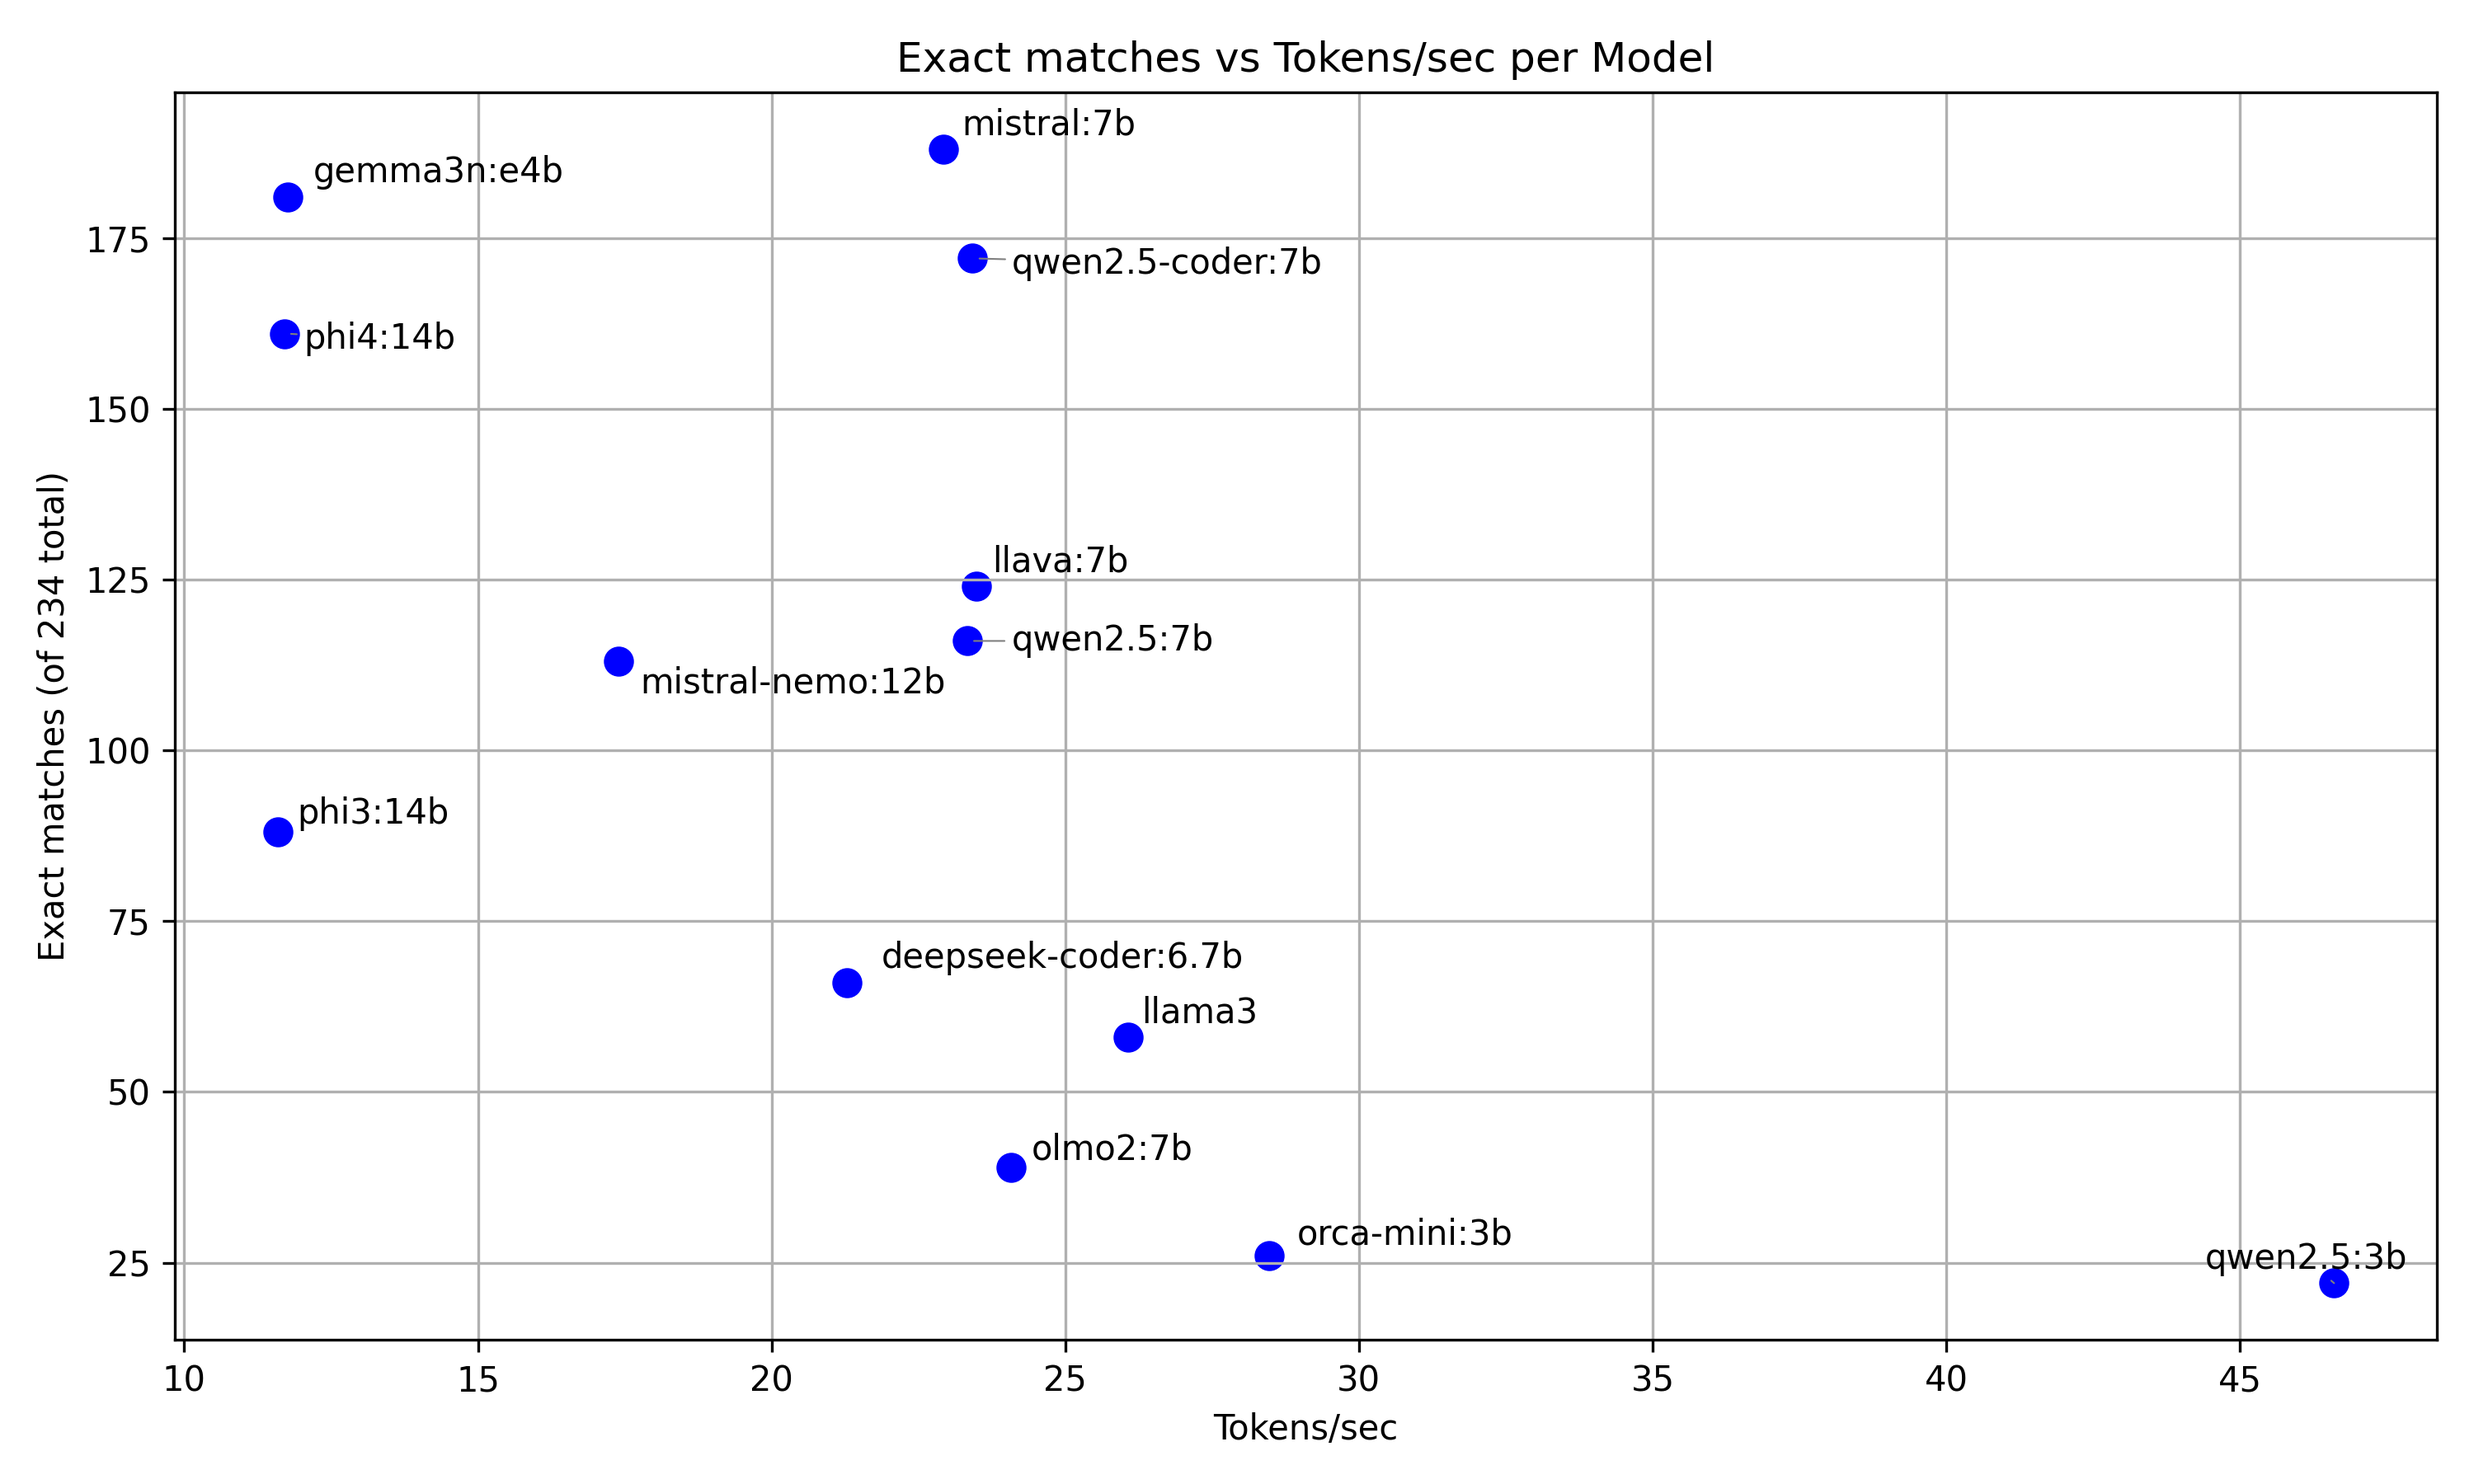
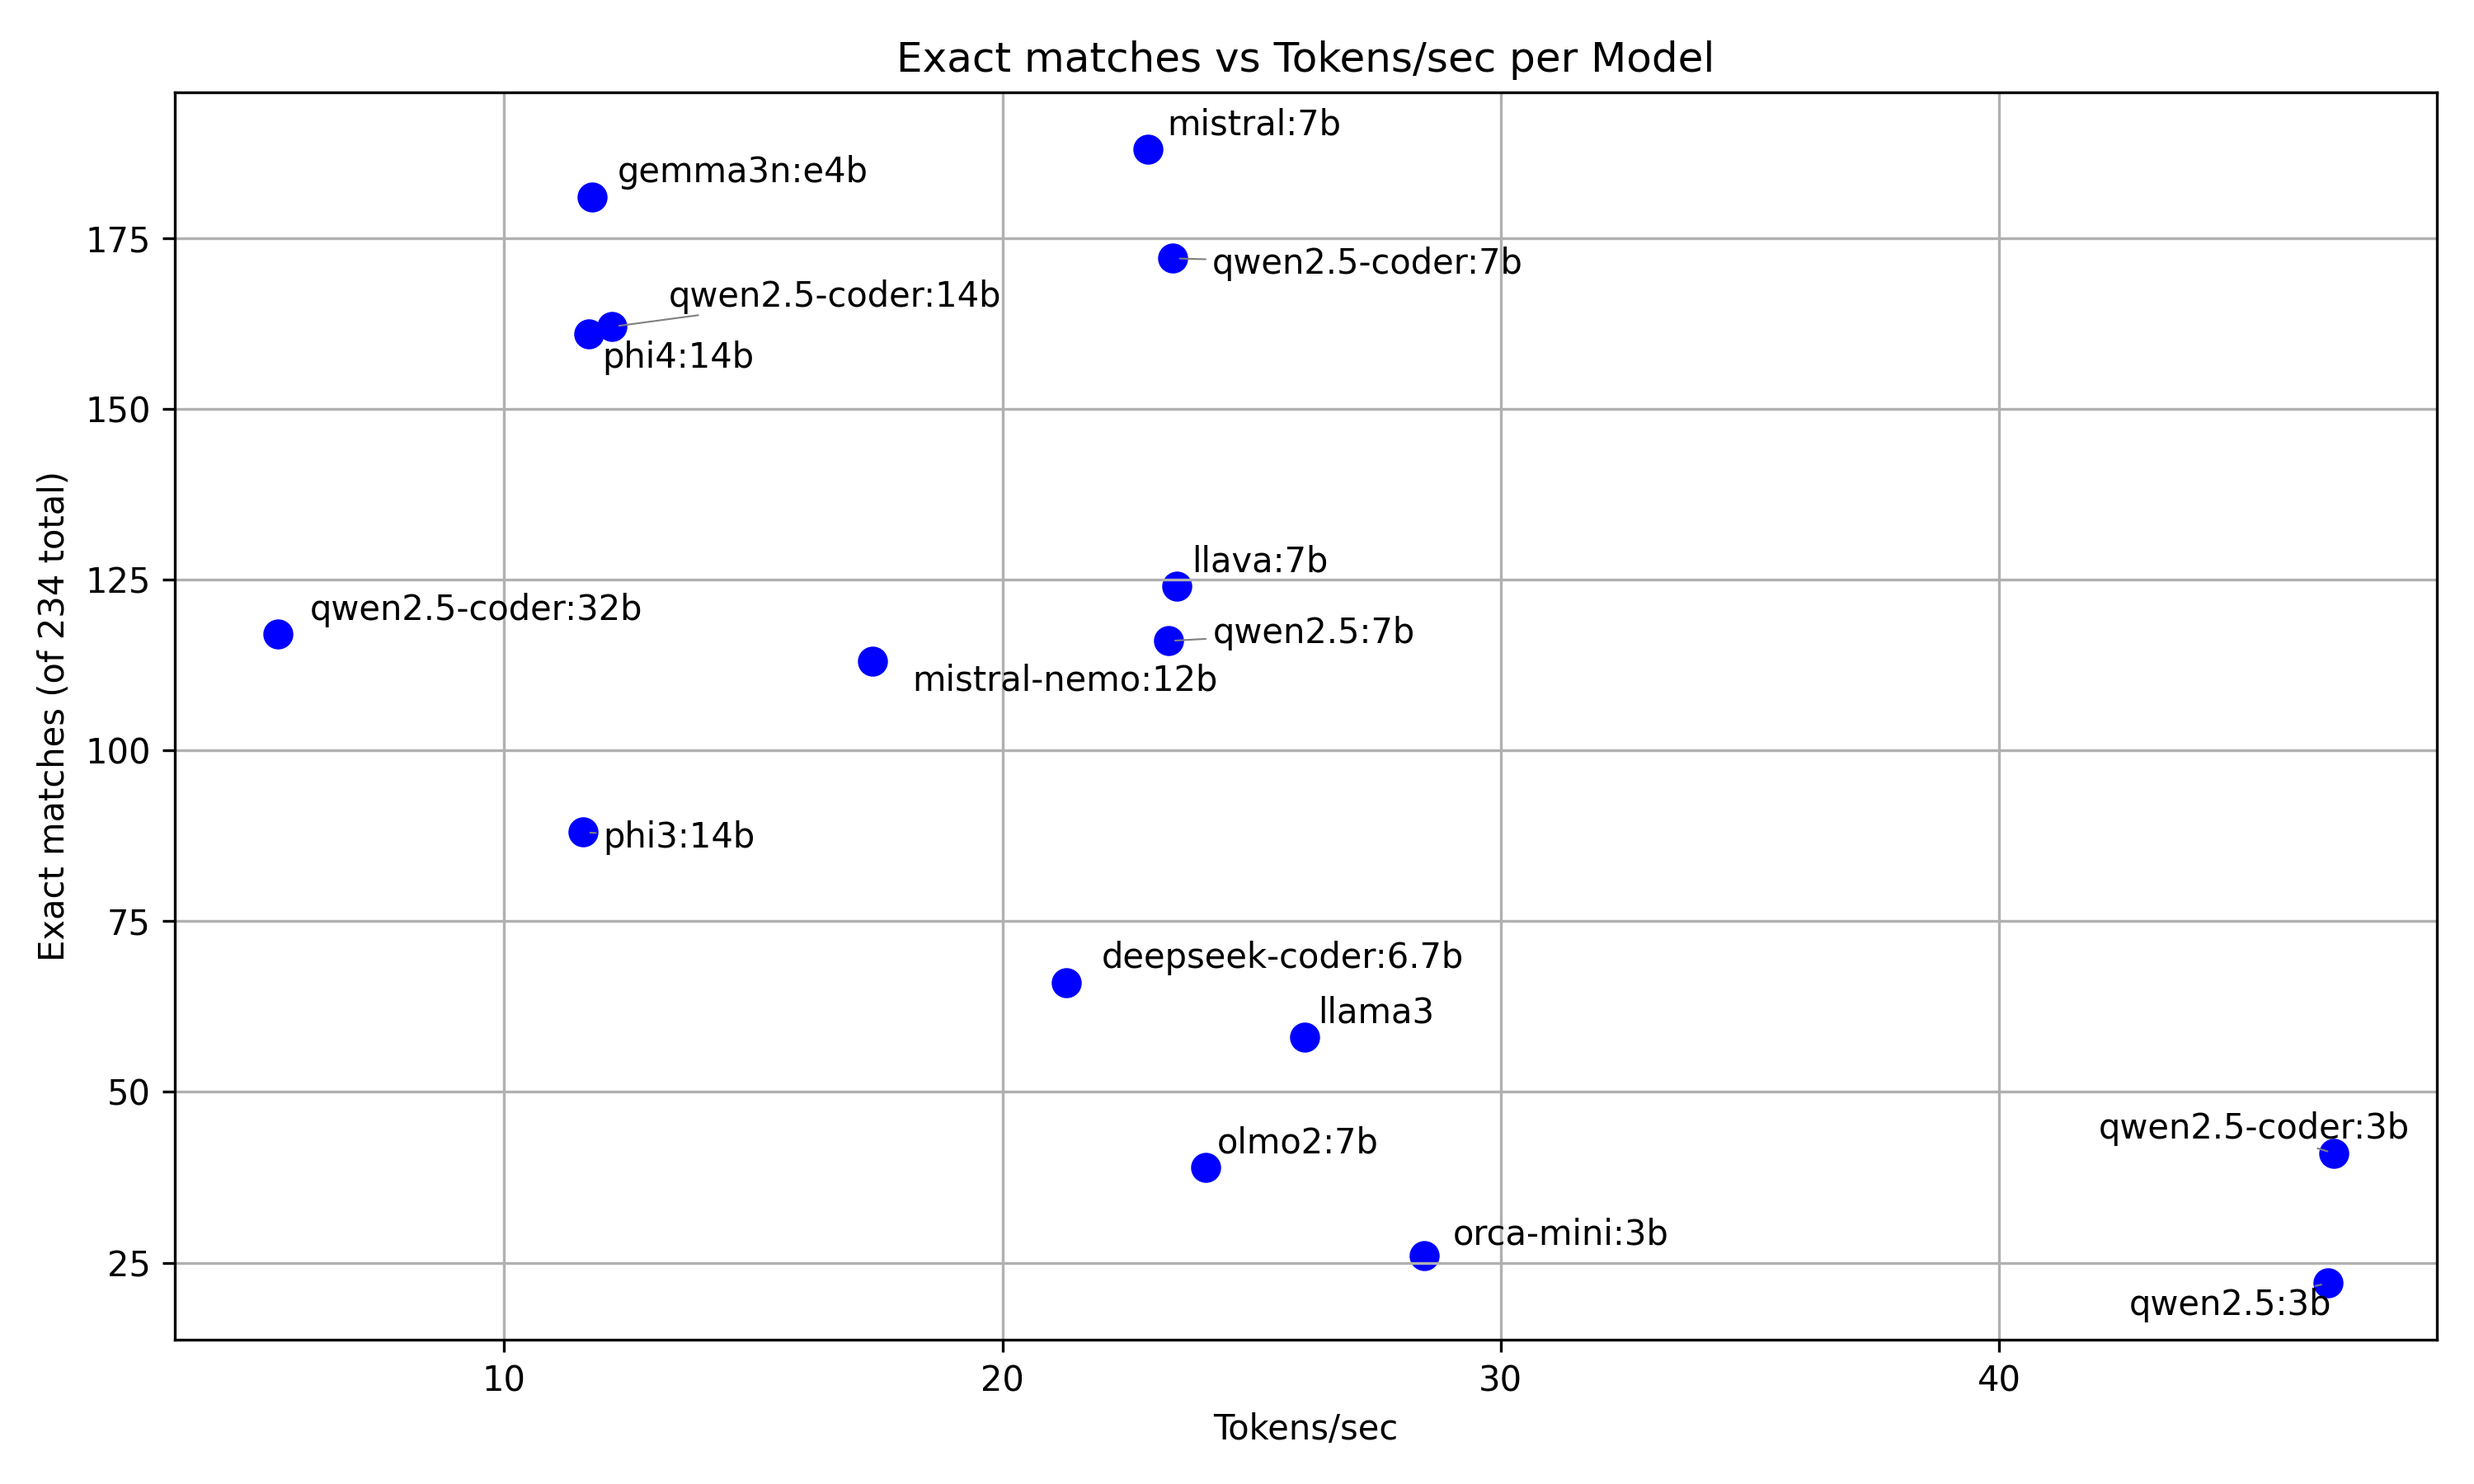
feat: updated graphs

diff --git a/src/main/java/benchmark/BenchmarkRunner.java b/src/main/java/benchmark/BenchmarkRunner.java
@@ -28,7 +28,6 @@ import java.nio.charset.StandardCharsets;
 import java.nio.file.*;
 import java.util.ArrayList;
 import java.util.List;
-import java.util.regex.Matcher;
 import java.util.regex.Pattern;
 import java.util.stream.Collectors;
 import java.util.stream.Stream;
@@ -50,8 +49,6 @@ public class BenchmarkRunner {
 
     // Pattern to aggressively match JSON within potential Markdown code blocks and outer arrays.
     // This pattern attempts to capture either a JSON object or array at the root.
-    // It's designed to be more robust than just finding the first { and last }.
-    // It captures content inside ```json ... ``` or directly starting with { or [
     // This looks for (```json\s*)?([\{\\[].*?[\}\]])(\s*```)?
     // Group 2 is the actual JSON content we want (either {..} or [..])
     private static final Pattern ROBUST_JSON_EXTRACT_PATTERN = Pattern.compile(
@@ -78,7 +75,11 @@ public class BenchmarkRunner {
             //"dolphin3:8b",
             //"olmo2:7b"
             //"tinyllama:1.1b"
-            "qwen2.5-coder:14b"
+            //"qwen2.5-coder:14b"
+            "qwen2.5-coder:32b",
+            "qwen2.5-coder:3b",
+            "qwen2.5-coder:1.5b",
+            "qwen2.5-coder:0.5b"
     );
 
     public static void main(String[] args) throws Exception {
